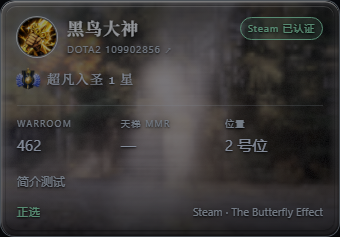
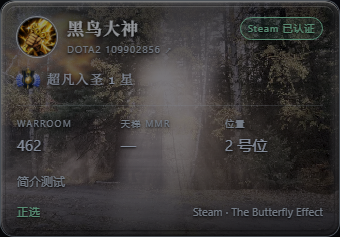
feat(card): mirror defaults follow the final tweak (no blur, tighter span)

diff --git a/apps/web/src/lib/mirror.ts b/apps/web/src/lib/mirror.ts
@@ -189,7 +189,7 @@ export const DEFAULT_MIRROR_PARAMS: MirrorParams = {
   // 这一组是用户在调参弹窗里定稿的，别凭感觉改——改之前先看 docs/UI.md §10
   metalness: 1,
   roughness: 0.5,
-  blurStrength: 10,
+  blurStrength: 0,
   grayscale: 0.3,
   warp: 0.15,
   warpScale: 1,
@@ -206,10 +206,10 @@ export const DEFAULT_MIRROR_PARAMS: MirrorParams = {
    */
   tiltGain: 0.13,
 
-  spanX: 0.62,
-  spanY: 0.55,
+  spanX: 0.5,
+  spanY: 0.5,
   sceneGain: 1,
-  spotX: 0.17,
+  spotX: 0.2,
   spotY: 0.25,
   spotRadius: 0.155,
   spotStrength: 0.24,

diff --git a/apps/web/src/lib/changelog.ts b/apps/web/src/lib/changelog.ts
@@ -16,7 +16,7 @@
  * 和 APP_VERSION 对不上就自动弹一次，之后只能从页脚的版本号点开，
  * 避免每次刷新都弹出。
  */
-export const APP_VERSION = '1.14.1';
+export const APP_VERSION = '1.14.2';
 
 export interface ReleaseNote {
   version: string;
@@ -26,6 +26,11 @@ export interface ReleaseNote {
 }
 
 export const RELEASES: ReleaseNote[] = [
+  {
+    version: '1.14.2',
+    date: '2026-11-11',
+    items: ['镜面：默认参数再调（反射不糊、取样更集中）'],
+  },
   {
     version: '1.14.1',
     date: '2026-11-11',
